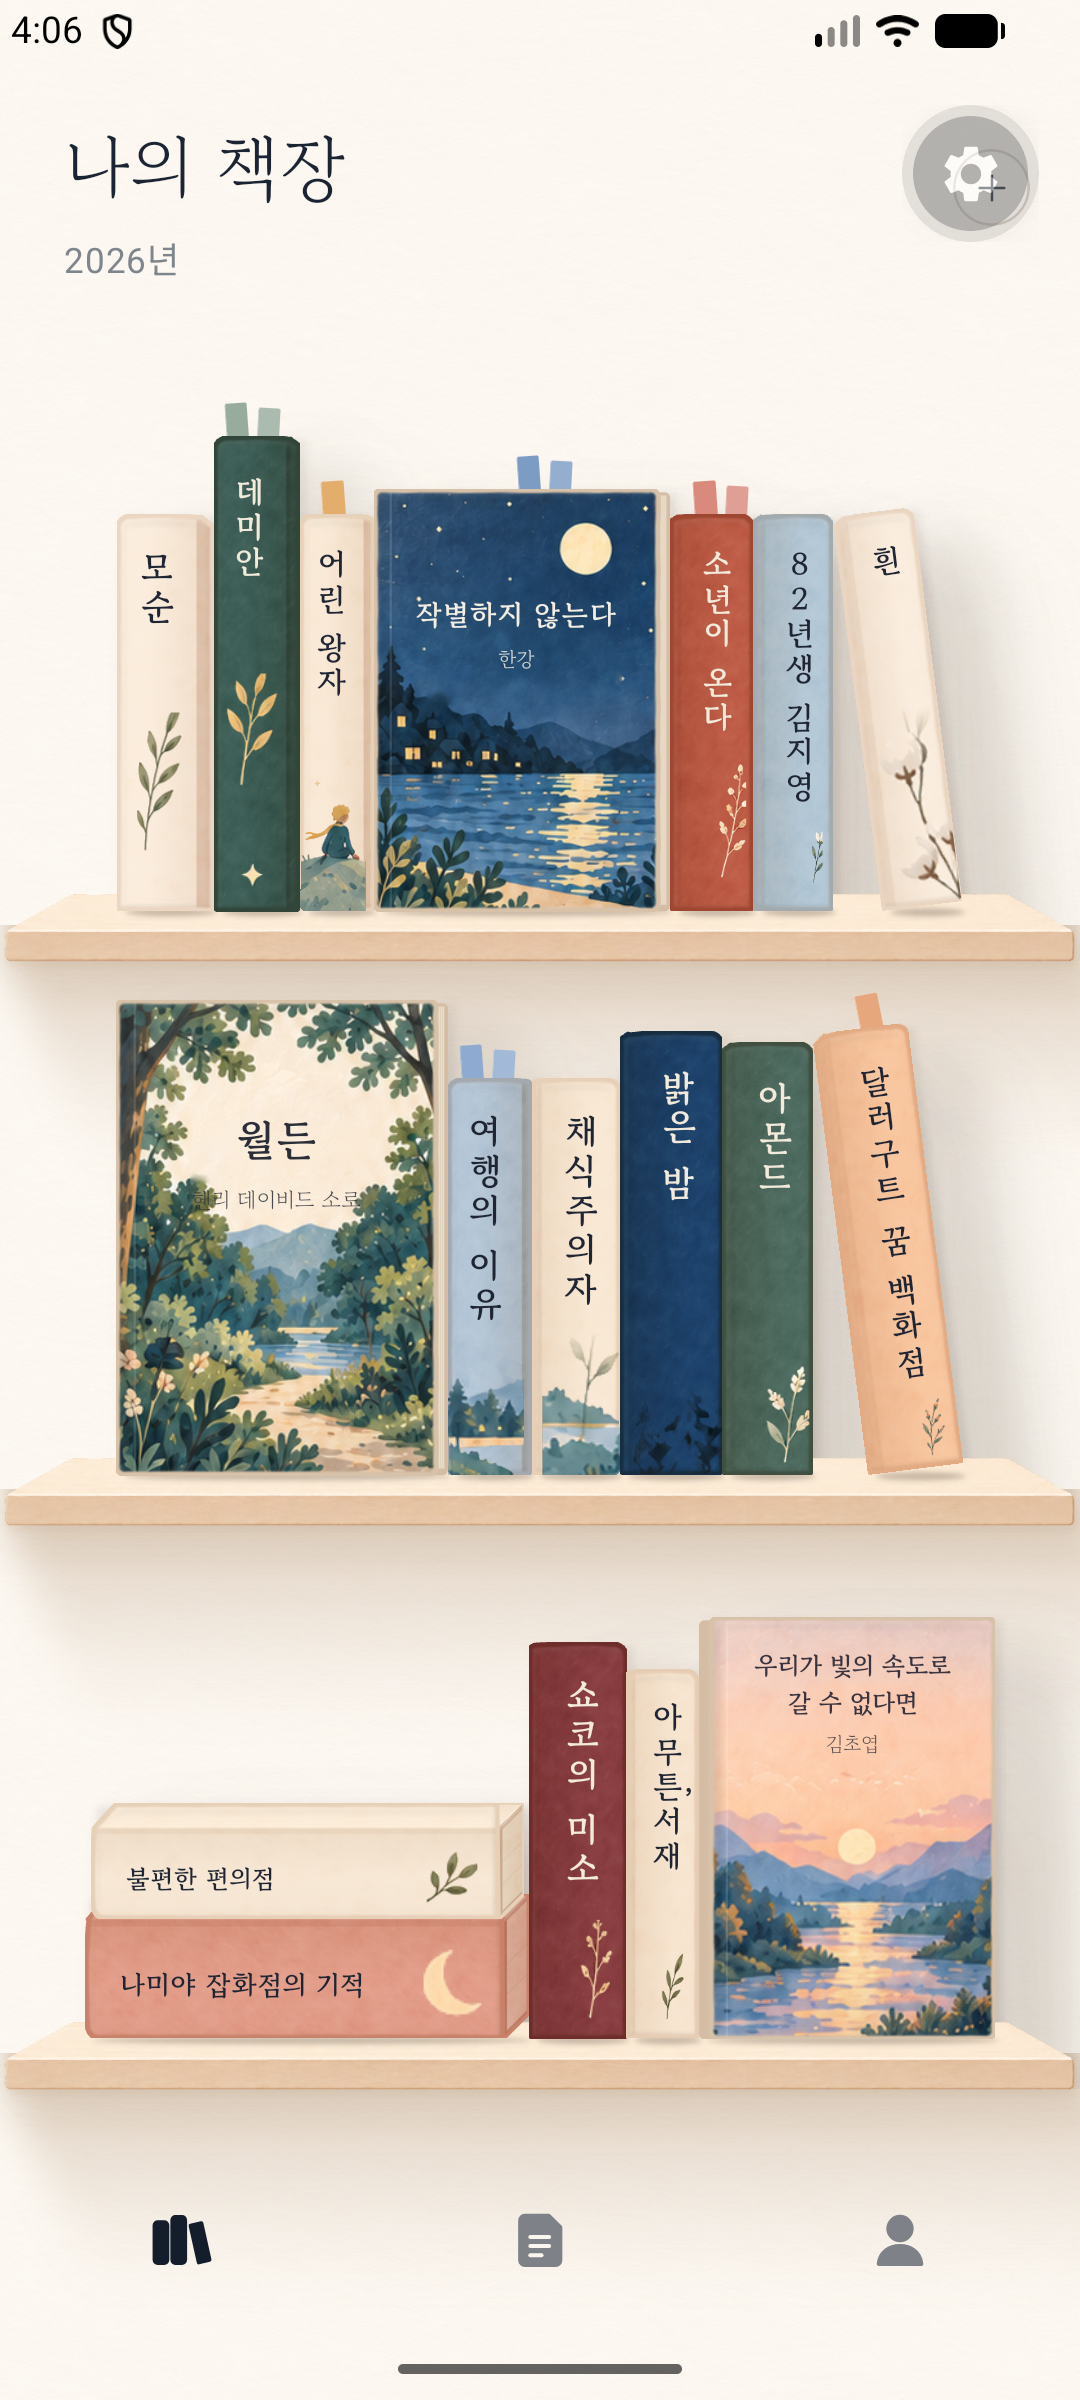
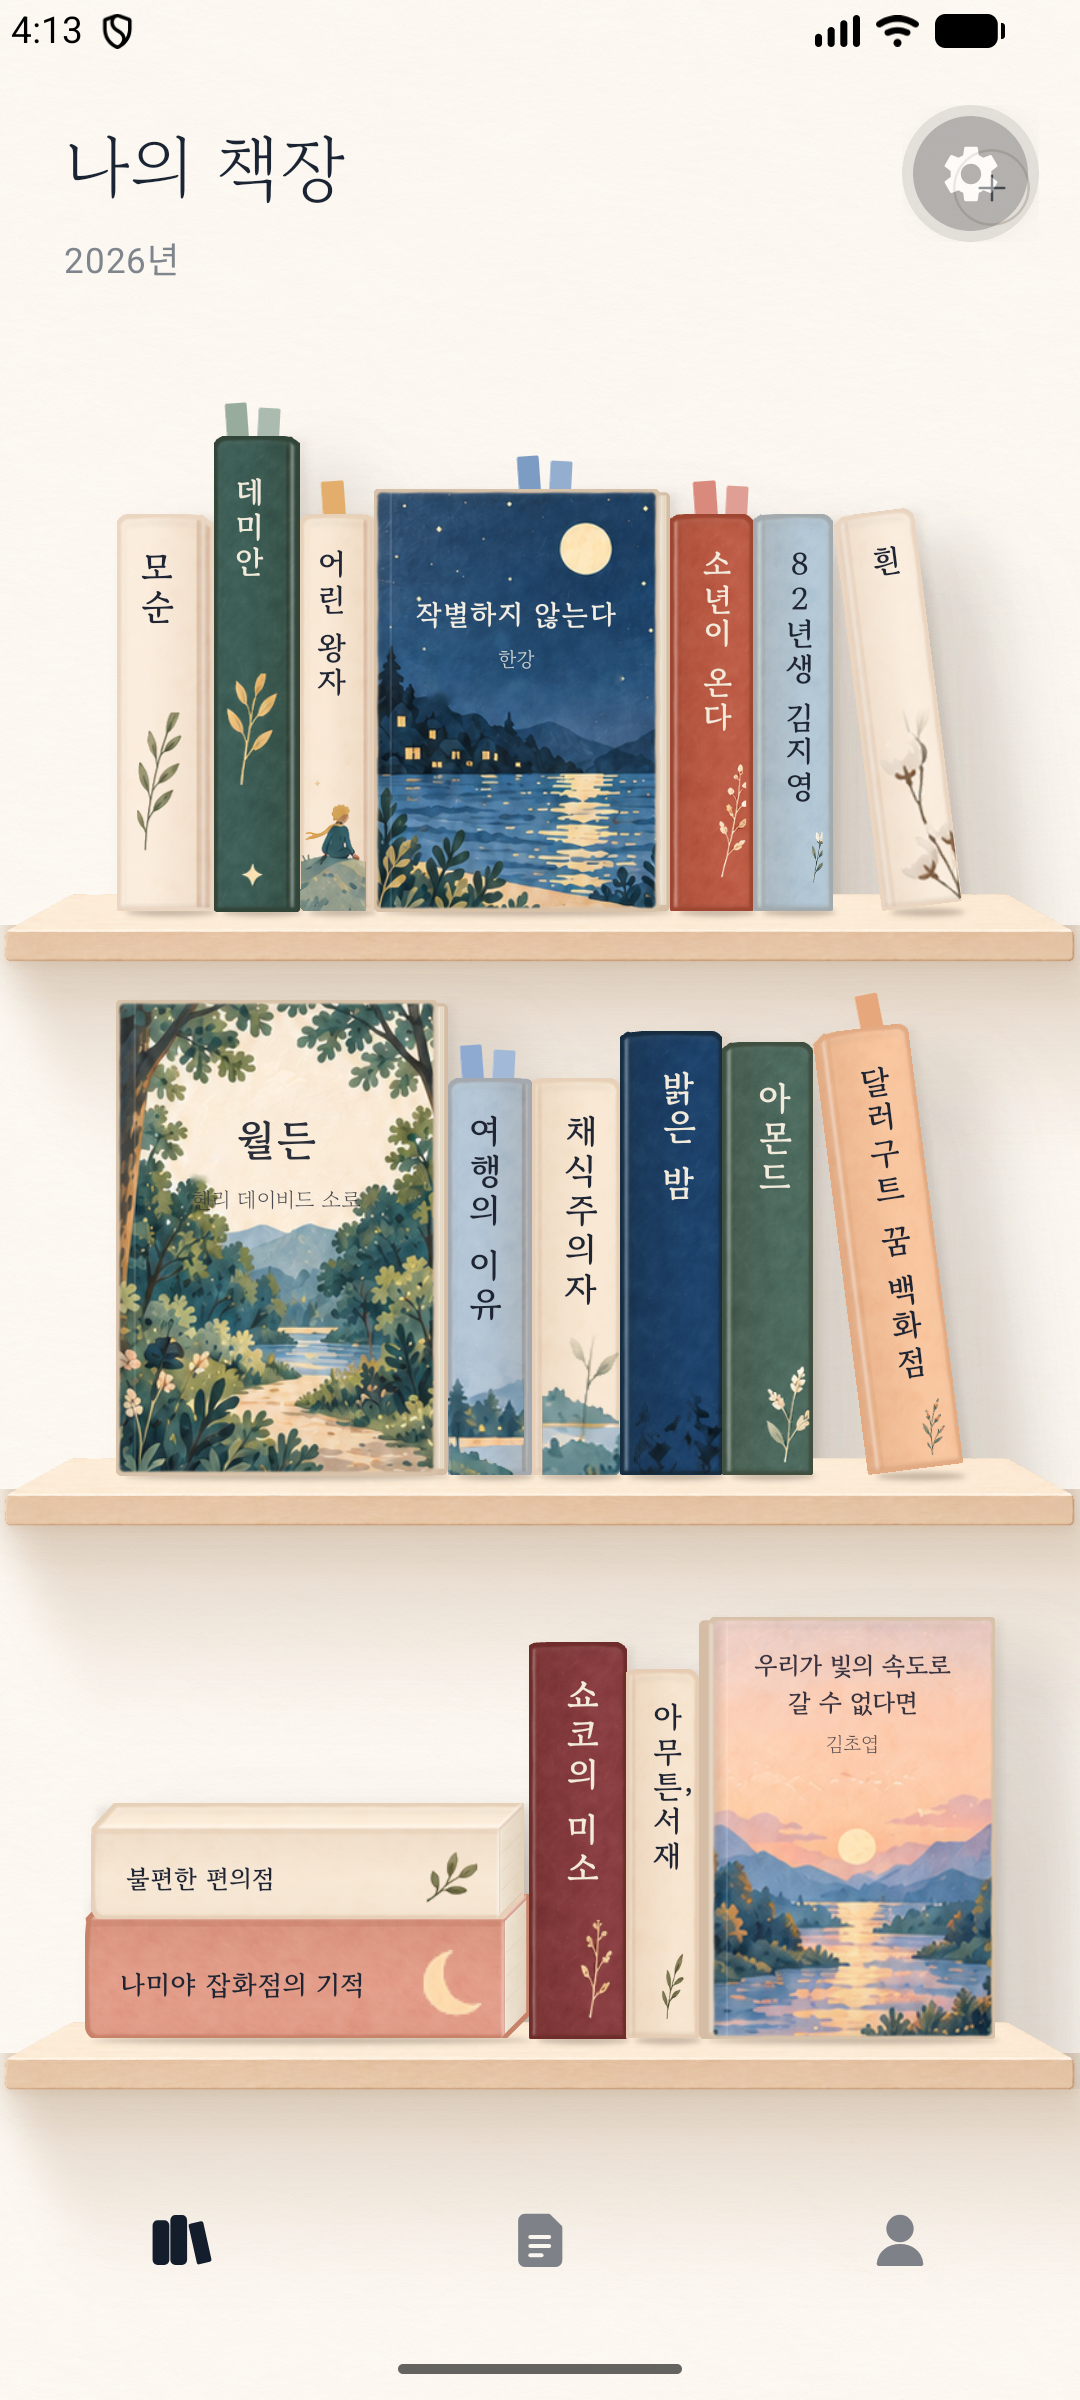
누운 책 윗면 이음선 제거, 끝면 아이보리 종이, 모서리 빛 반사

diff --git a/app/src/ui/book/BookBody.tsx b/app/src/ui/book/BookBody.tsx
@@ -206,6 +206,7 @@ function coverOutline(w: number, h: number, s: number, seed: string): Point[] {
 }
 
 const poly = (pts: Point[]) => Skia.Path.Polygon(pts.map((q) => ({ x: q.x, y: q.y })), true);
+const line = (pts: Point[]) => Skia.Path.Polygon(pts.map((q) => ({ x: q.x, y: q.y })), false);
 
 // 빛 받는 가장자리: 왼쪽 위에서 오는 빛에 둥근 모서리(머리·왼쪽 가장자리)가 밝게 빛난다(시안 모순·데미안).
 // 윤곽 선을 흰색으로 그리고 위쪽·왼쪽 띠로만 보이게 가린다. lying: 몸체가 눕혀져 그려지는 경우(화면 위 = 몸체 오른쪽).
@@ -305,6 +306,10 @@ function SpineSkin({
         </Rect>
         <Grain w={w} h={h} s={s} image={grain} />
         <Path path={sideTop} color="rgba(255,255,255,0.16)" />
+        {/* 면이 꺾이는 모서리의 빛 반사(시안: 앞면과 옆면 사이, 누운 책은 앞면과 윗면 사이) */}
+        <Rect x={mirror ? w * (1 - side) - 1.2 * s : w * side} y={0} width={1.2 * s} height={h} color="rgba(255,255,255,0.45)">
+          <BlurMask blur={0.45 * s} style="normal" />
+        </Rect>
         {/* 바닥 쪽 살짝 어둡게 */}
         <Rect x={0} y={h - 3 * s} width={w} height={3 * s}>
           <LinearGradient start={vec(0, h - 3 * s)} end={vec(0, h)} colors={['rgba(0,0,0,0)', 'rgba(0,0,0,0.1)']} />
@@ -402,49 +407,52 @@ export const LyingBody = memo(function LyingBody({ id, width: len, height: H, sc
   const shapes = useMemo(() => {
     const T = H - topFace;
     const b = Math.min(1.3 * s, T * 0.12); // 표지 판 두께
-    const pages = [at(0.1, b / T), at(1, b / T), at(1, 1 - b / T), at(0.1, 1 - b / T)];
-    const lines = [0.4, 0.65].map((v) => [at(0.1, v), at(1, v)]);
+    const pages = [at(0.06, b / T), at(1, b / T), at(1, 1 - b / T), at(0.06, 1 - b / T)];
+    const lines = [0.3, 0.5, 0.7].map((v) => [at(0.06, v), at(1, v)]);
+    const m = 6;
     return {
-      topTri: poly([{ x: L - 0.5, y: 0 }, { x: L + e, y: 0 }, { x: L - 0.5, y: topFace }]),
+      // 상자 실루엣: 끝면 아래(비스듬한 바닥 모서리) 바깥으로 몸체가 비어져 나오지 않게 자른다
+      box: poly([{ x: -m, y: -m }, { x: len + m, y: -m }, { x: len + m, y: T - m }, { x: L - m, y: H + m }, { x: -m, y: H + m }]),
       end: poly([at(0, 0), at(1, 0), at(1, 1), at(0, 1)]),
       pages: poly(pages),
-      lines: lines.map(([p, q]) => poly([p, q, { x: q.x, y: q.y + 0.5 }, { x: p.x, y: p.y + 0.5 }])),
-      rim: poly([{ x: L - 0.5, y: 0 }, { x: L + e, y: 0 }, at(1, 1), at(0, 1)]),
+      lines: lines.map(([p, q]) => poly([p, q, { x: q.x, y: q.y + 0.6 }, { x: p.x, y: p.y + 0.6 }])),
+      // 끝면 바깥 가장자리(오른쪽 끝과 비스듬한 바닥 모서리). 나머지 실루엣은 몸체가 그린다
+      rim: line([at(1, 0), at(1, 1), at(0, 1)]),
+      ridgeFront: line([at(0, 0.02), at(0, 1)]),
+      ridgeTop: line([at(0, 0), at(1, 0)]),
     };
-  }, [L, e, H, topFace, s]);
+  }, [L, e, H, topFace, s, len]);
   const edge = scaleColor(face, edgeFactor(face));
+  const ridge = (path: SkPath, a: number) => (
+    <Path path={path} style="stroke" strokeWidth={1.2 * s} color={`rgba(255,255,255,${a})`}>
+      <BlurMask blur={0.45 * s} style="normal" />
+    </Path>
+  );
   return (
     <Canvas style={{ width: len, height: H }}>
-      <Group transform={[{ translateY: H }, { rotate: -Math.PI / 2 }]}>
-        <SpineSkin id={id} w={H} h={L} s={s} face={face} side={side} grain={grain} lying chamfer={topFace} />
+      {/* 앞면·윗면은 끝까지 한 장으로(윗면 뒤쪽 모서리가 오른쪽 끝까지 이어진다). 끝면이 앞면 끝을 덮는다 */}
+      <Group clip={shapes.box}>
+        <Group transform={[{ translateY: H }, { rotate: -Math.PI / 2 }]}>
+          <SpineSkin id={id} w={H} h={len} s={s} face={face} side={side} grain={grain} lying chamfer={topFace} />
+        </Group>
       </Group>
-      {/* 윗면 오른쪽 끝(뒤로 밀린 부분) */}
-      <Group clip={shapes.topTri}>
-        <Rect x={L - 1} y={0} width={e + 1} height={topFace}>
-          <LinearGradient start={vec(0, 0)} end={vec(0, topFace)} colors={[scaleColor(face, kAt(0.99)), scaleColor(face, kAt(side + 0.001))]} />
-        </Rect>
-        <Grain w={len} h={H} s={s} image={grain} />
-      </Group>
-      {/* 끝면: 앞표지 판 · 종이 · 뒤표지 판. 빛 반대쪽이라 어둡고, 뒤로 갈수록 조금 더 어둡다 */}
+      {/* 끝면: 위아래 얇은 표지 판(책 색) 사이로 아이보리 종이 단면. 빛 반대쪽이라 뒤로 갈수록 조금 어둡다 */}
       <Group clip={shapes.end}>
         <Rect x={L} y={0} width={e} height={H}>
-          <LinearGradient start={vec(L, 0)} end={vec(L + e, 0)} colors={[scaleColor(face, 0.82), scaleColor(face, 0.72)]} />
+          <LinearGradient start={vec(L, 0)} end={vec(L + e, 0)} colors={[scaleColor(face, 0.86), scaleColor(face, 0.76)]} />
         </Rect>
-        {/* 종이: 시안은 흰 종이가 아니라 책 색에 가까운 한 톤 밝은 면(판 사이로 살짝 들어간 모양) */}
         <Path path={shapes.pages}>
-          <LinearGradient start={vec(L, 0)} end={vec(L + e, 0)} colors={[mix(scaleColor(face, 0.86), PAGE, 0.35), mix(scaleColor(face, 0.78), PAGE, 0.3)]} />
+          <LinearGradient start={vec(L, 0)} end={vec(L + e, 0)} colors={[scaleColor(PAGE, 0.97), scaleColor(PAGE, 0.88)]} />
         </Path>
-        <Path path={shapes.pages} style="stroke" strokeWidth={0.8 * s} color={scaleColor(face, 0.66)} opacity={0.5} />
         {shapes.lines.map((l, i) => (
-          <Path key={i} path={l} color={scaleColor(face, 0.7)} opacity={0.2} />
+          <Path key={i} path={l} color={PAGE_LINE} opacity={0.45} />
         ))}
         <Grain w={len} h={H} s={s} image={grain} />
-        {/* 앞면과 만나는 모서리 */}
-        <Rect x={L} y={0} width={1.2 * s} height={H} color={scaleColor(face, 0.7)} opacity={0.6} />
       </Group>
-      {/* 윗면과 끝면이 만나는 모서리의 옅은 빛, 바깥 가장자리 선 */}
-      <Path path={poly([at(0, 0), at(1, 0), { x: L + e, y: 1.2 * s }, { x: L, y: topFace + 1.2 * s }])} color="rgba(255,255,255,0.18)" />
-      <Path path={shapes.rim} style="stroke" strokeWidth={1.3 * s} color={edge} antiAlias />
+      {/* 면이 꺾이는 모서리의 빛 반사: 앞면과 끝면, 윗면과 끝면 사이 */}
+      {ridge(shapes.ridgeFront, 0.42)}
+      {ridge(shapes.ridgeTop, 0.5)}
+      <Path path={shapes.rim} style="stroke" strokeWidth={1.6 * s} color={edge} strokeJoin="round" antiAlias />
       {motif ? <SkImage image={motif} x={L - mw - len * 0.05} y={H - fw / 2 - mh / 2} width={mw} height={mh} fit="contain" /> : null}
     </Canvas>
   );
@@ -508,6 +516,10 @@ export const CoverBody = memo(function CoverBody({
       </Group>
       <Path path={outline} style="stroke" strokeWidth={1.3 * s} color={scaleColor(face, edgeFactor(face))} antiAlias />
       </Group>
+      {/* 앞표지와 옆면이 만나는 모서리의 빛 반사 */}
+      <Rect x={mirror ? side - 0.2 * s : fw - 0.2 * s} y={2.4 * s} width={1.2 * s} height={h - 4.8 * s} color="rgba(255,255,255,0.4)">
+        <BlurMask blur={0.45 * s} style="normal" />
+      </Rect>
     </Canvas>
   );
 });

diff --git a/docs/assets.md b/docs/assets.md
@@ -19,7 +19,8 @@
 - 가운데 시점: 화면 가운데보다 왼쪽 책은 오른쪽 옆면, 오른쪽 책은 왼쪽 옆면이 보이고 가운데에 가까울수록 옆면이 좁다(`geometry.ts` `viewOf`).
 - 붓결: `extract-body-assets.py`가 요철 음영 없이 평평한 물감 얼룩 + 옅은 비스듬한 결 + 드문 밝은 점·잔 긁힘을 합성한다(굵기별 세기는 시안 데미안 면을 보고 맞춤).
 - 명암: 책등은 앞면(왼쪽 가까이 가장 밝음) → 좁은 홈(어두운 책만) → 한 톤 어두운 옆면. 그늘은 회색이 아니라 따뜻한 갈색 쪽으로 어두워진다(채널별 지수). 실루엣에는 책 색을 어둡게 한 또렷한 선을 두른다(조금 어긋난 두 번째 선으로 굵기가 고르지 않게). 가장자리는 파장 24·10DU 사인으로 최대 0.32DU 부드럽게 흔들리고, 책등 머리는 가운데가 0.9DU 볼록하다. 빛을 받는 위·왼쪽 가장자리 안쪽에는 넓고 흐린 밝은 테가 있다.
-- 누운 책: 사선 투영 상자. 앞면(책등) + 윗면(뒤 모서리가 오른쪽으로 윗면 깊이만큼 밀린 평행사변형, 왼쪽 끝 45도) + 오른쪽 끝면(판 사이로 들어간 종이, 책 색에 가까운 한 톤 밝은 면). 끝면 폭 = 윗면 깊이(TOP_FACE)라 앞면은 그만큼 짧다.
+- 누운 책: 사선 투영 상자. 앞면(책등) + 윗면(뒤 모서리가 오른쪽으로 윗면 깊이만큼 밀린 평행사변형, 왼쪽 끝 45도) + 오른쪽 끝면(위아래 얇은 표지 판은 책 색, 사이는 아이보리 종이 단면). 끝면 폭 = 윗면 깊이(TOP_FACE)라 앞면은 그만큼 짧다. 앞면·윗면은 끝까지 한 장으로 그리고 끝면이 덮는다(이음선 없음).
+- 모서리 빛 반사: 면이 꺾이는 모서리(세운 책 앞면-옆면, 누운 책 앞면-윗면·앞면-끝면·윗면-끝면, 표지 앞면-옆면)에 흐린 흰 선.
 - 그림자: 빛 반대쪽(오른쪽 아래)으로만 떨어진다. 흐림이 왼쪽·위로 새지 않게 시작 윤곽도 조금 민다.
 - 예시 18권은 실제 책(판형·쪽수는 공개 서지 기준 대략값, 서지 API 연동 시 교체).
 
